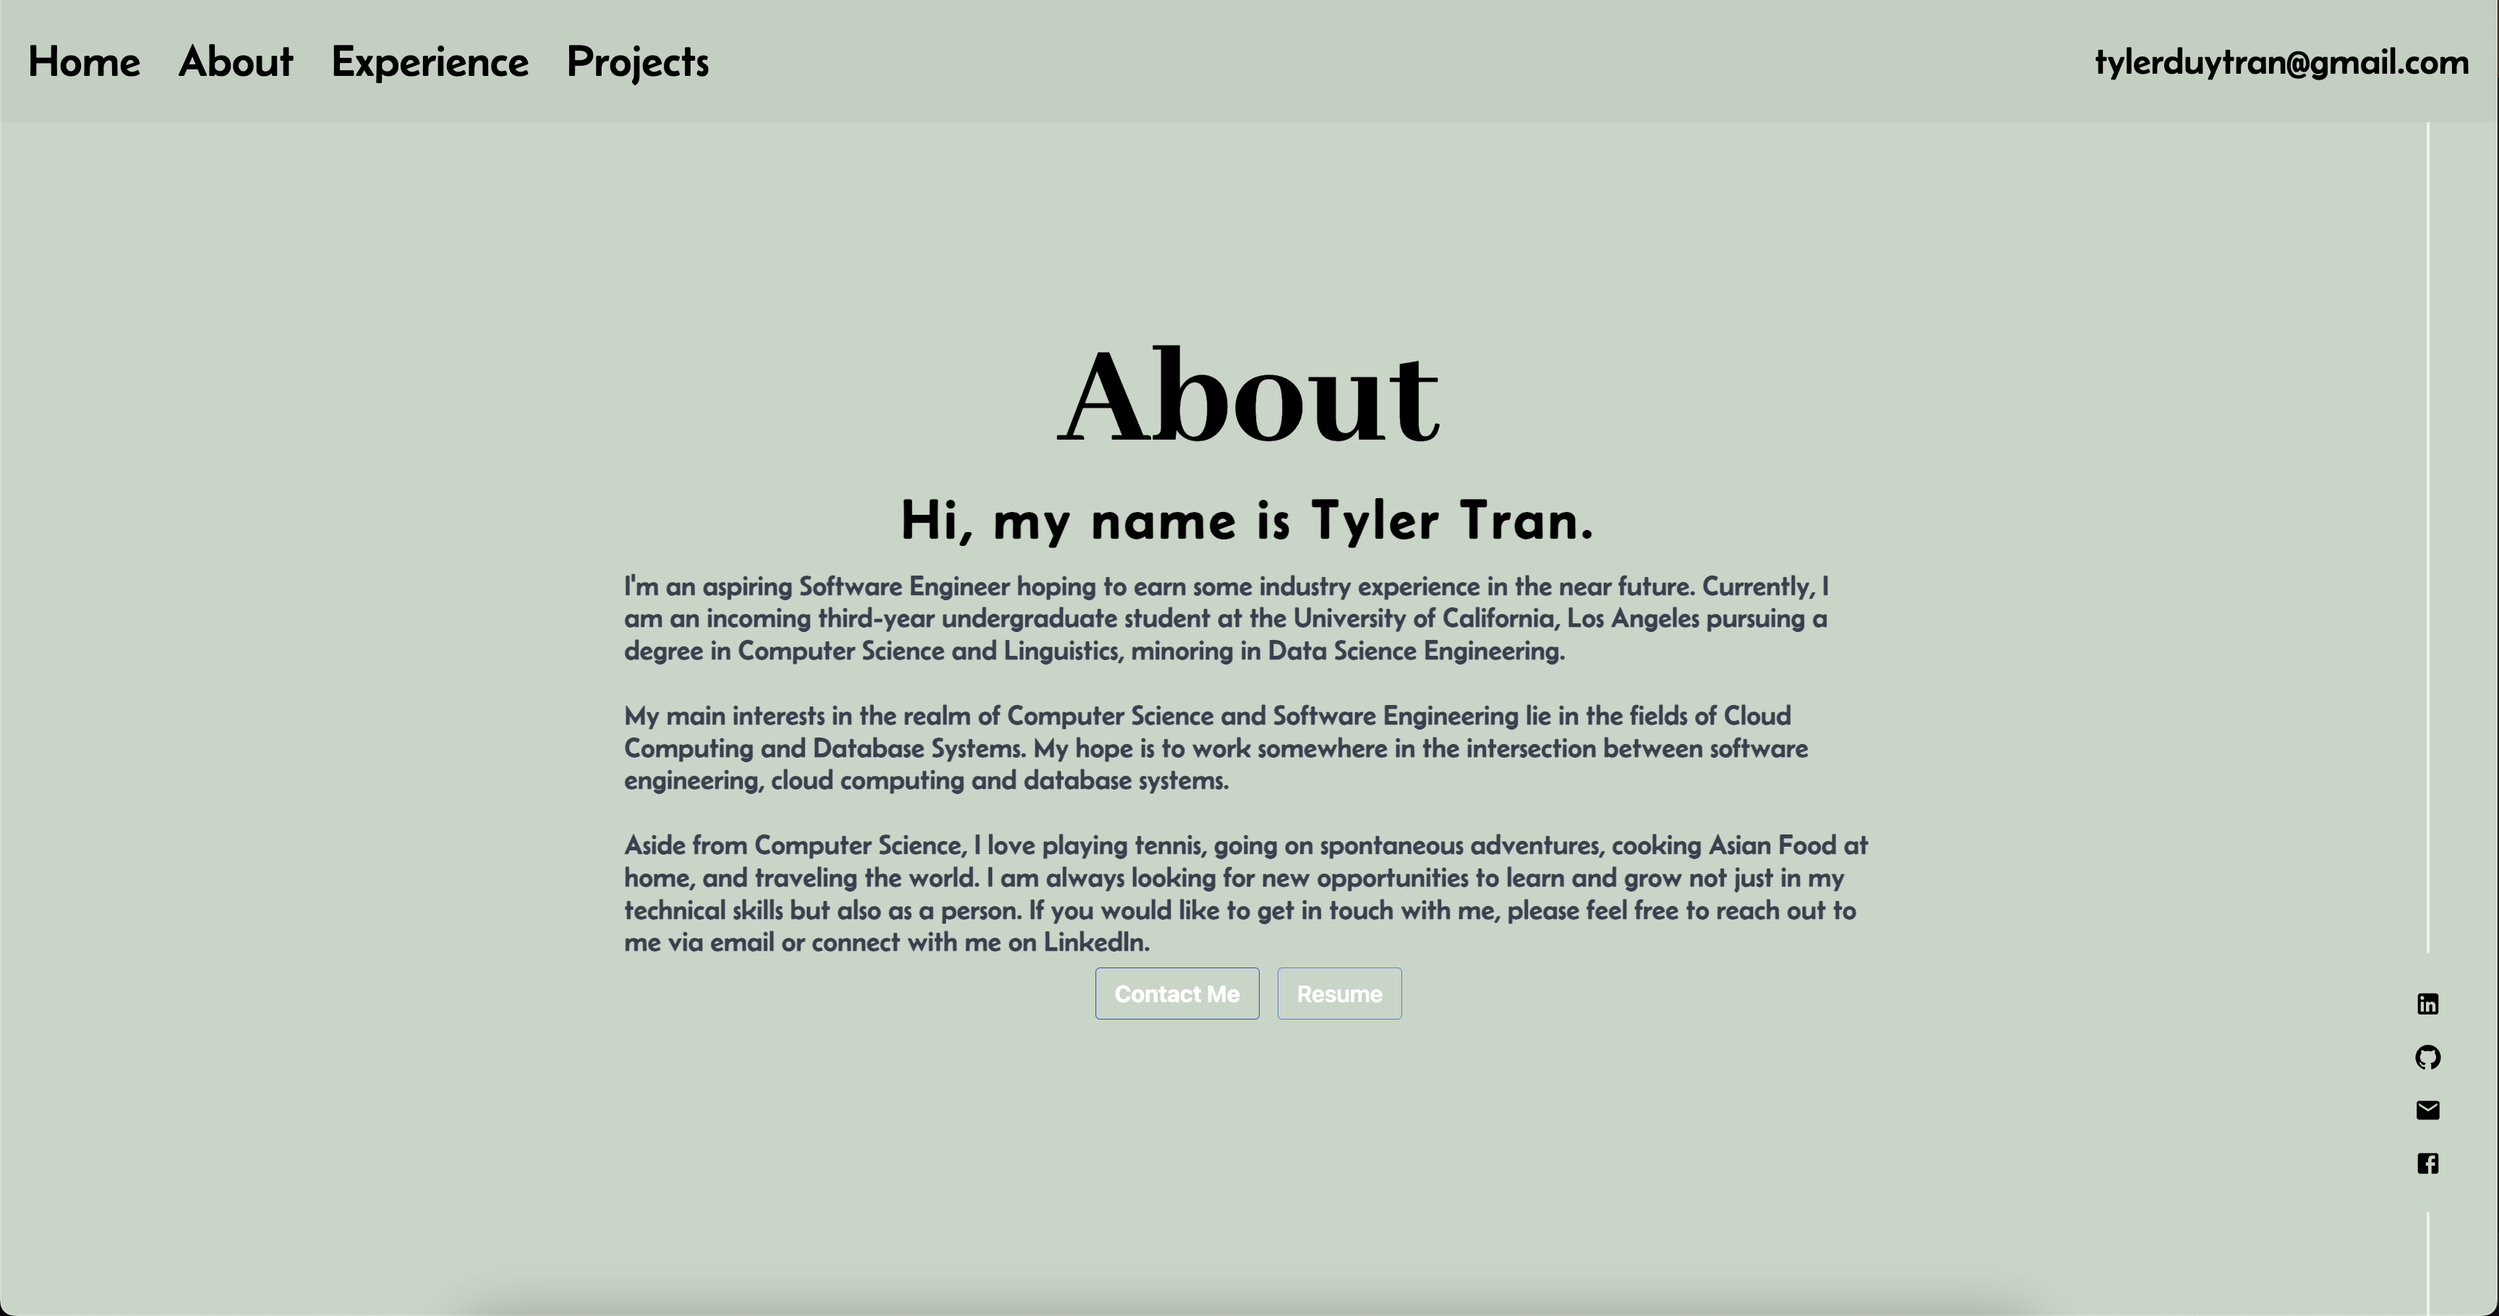
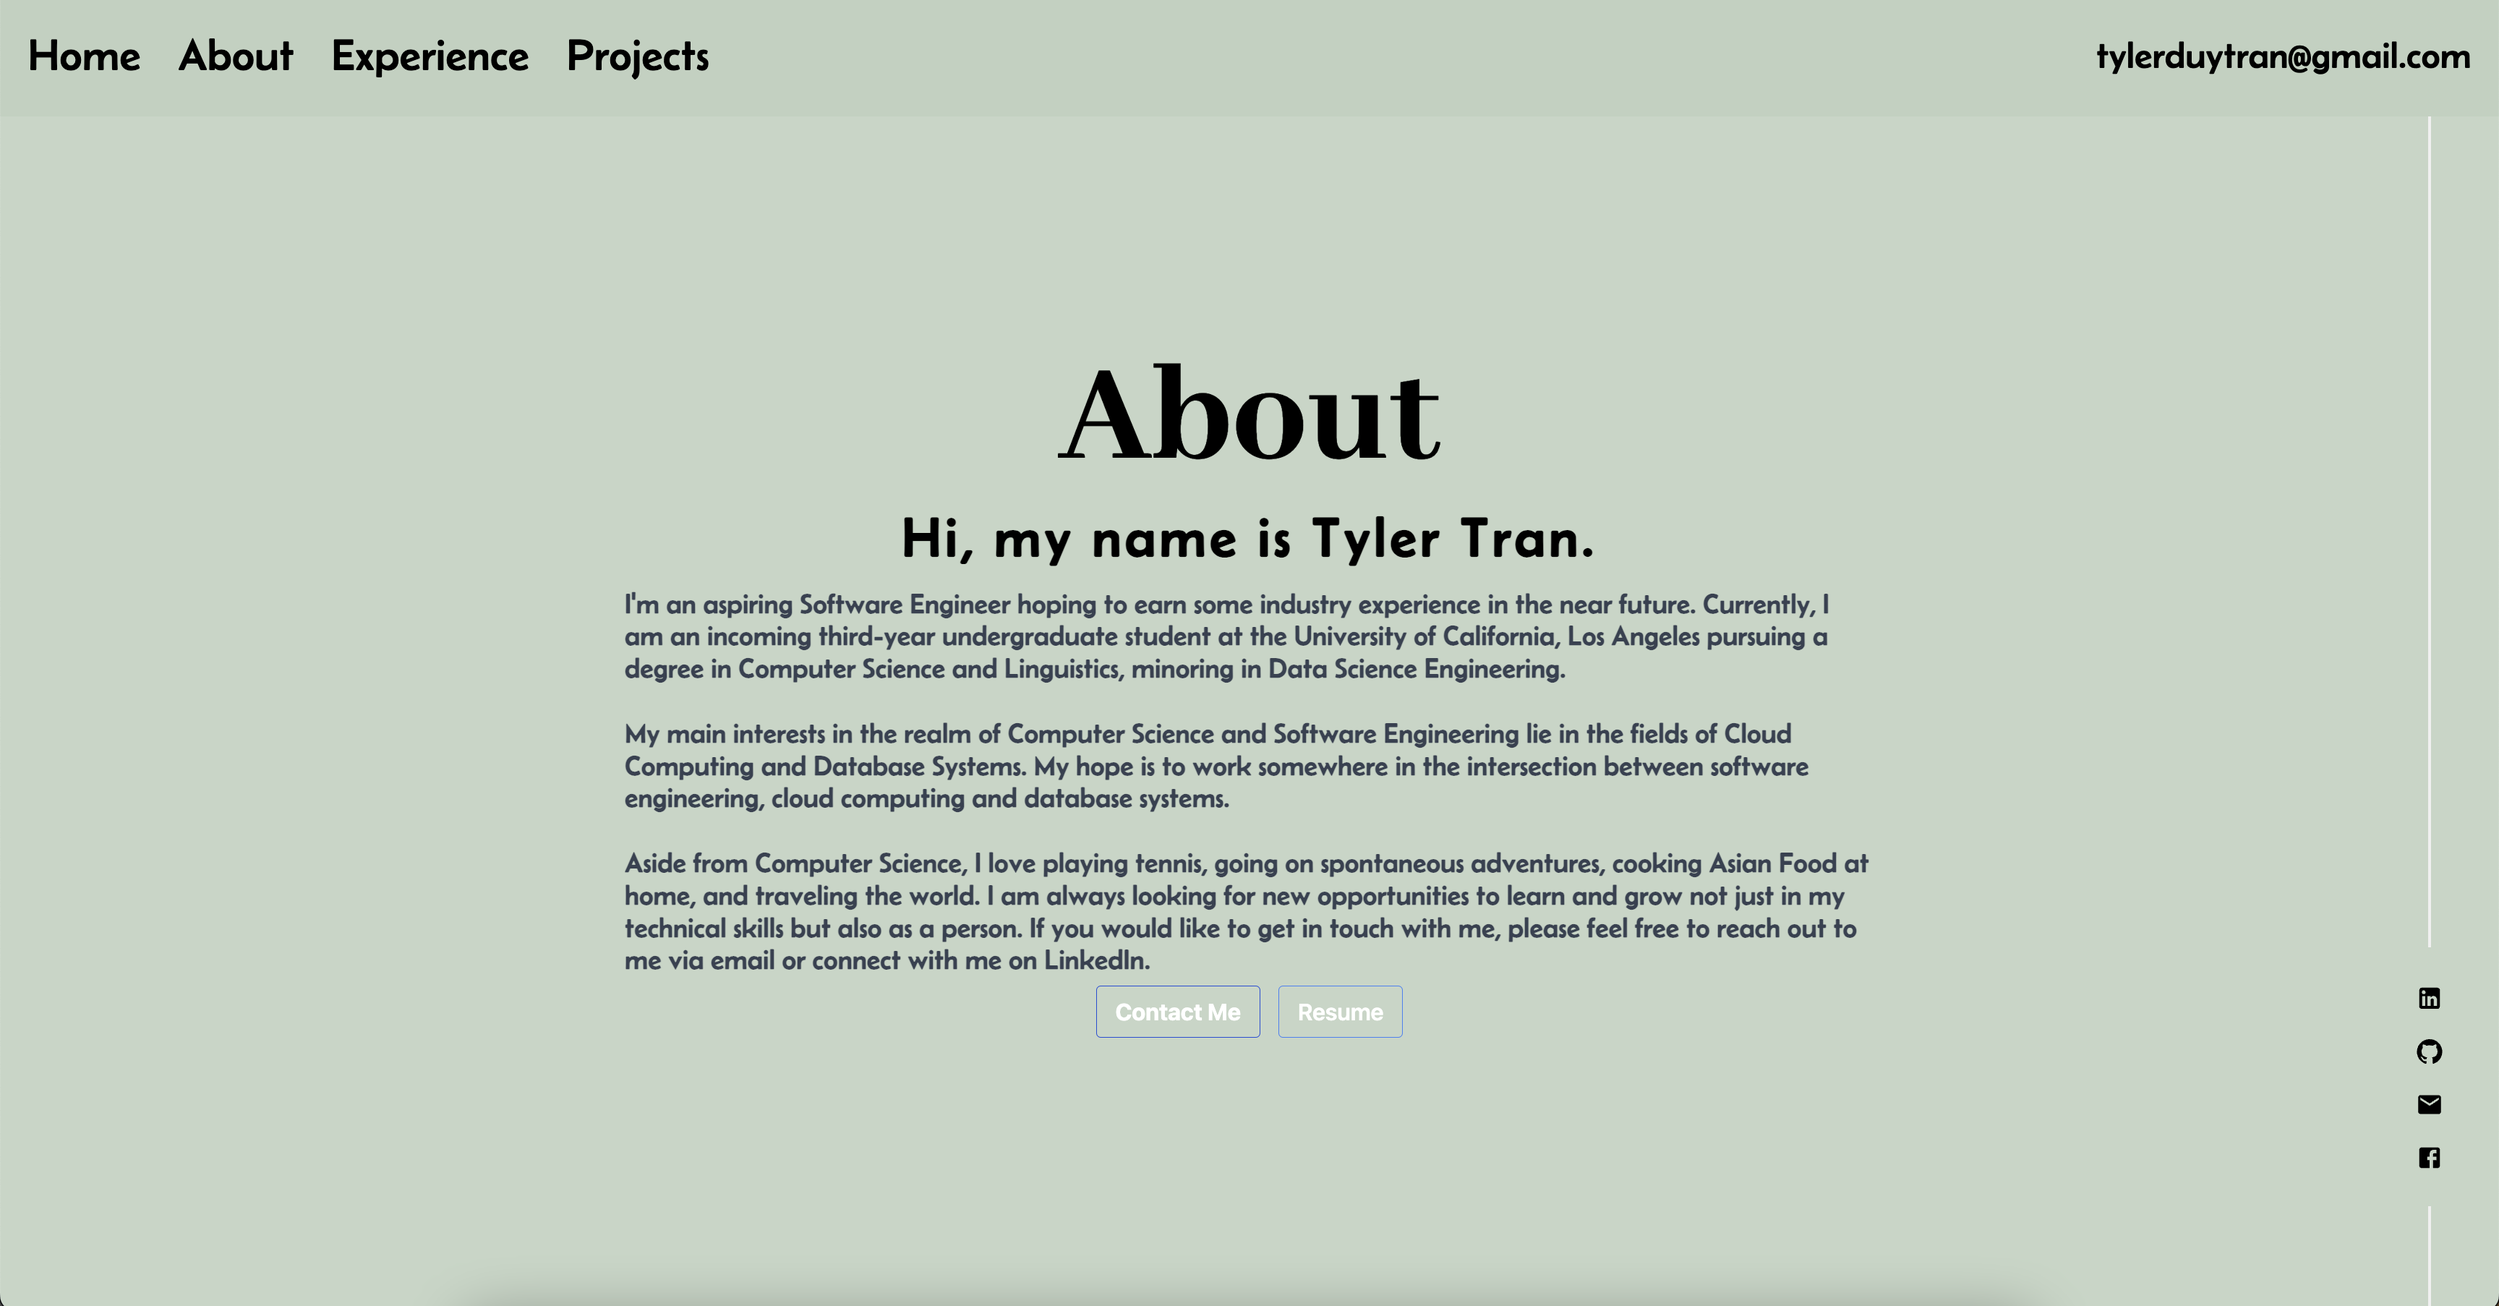
Fixed mobile implementation in some areas
Wrote in some additional descriptions, resume revision underway

diff --git a/src/components/AboutPage/About.tsx b/src/components/AboutPage/About.tsx
@@ -6,41 +6,10 @@ import { Fade, Reveal, Slide } from "react-awesome-reveal";
 
 export default function About(){
 
-    // const textContainers = document.querySelectorAll('.word');
-    // const defaultScale = 1;
-    // const maxScale = 1.5;
-    // const neighborScale = 1.25;
-
-    // textContainers.forEach((textContainer) => {
-    //     const spans = textContainer.querySelectorAll('span');
-
-    //     textContainer.addEventListener('mousemove', (e) => {
-    //         const target = e.target;
-    //         const index = Array.from(spans).indexOf(target as HTMLSpanElement);
-
-    //         spans.forEach((span, i) => {
-    //             let scale = defaultScale;
-
-    //             if (i === index) {
-    //                 scale = maxScale;
-    //             }
-    //             else if (i === index - 1 || i === index + 1) {
-    //                 scale = neighborScale;
-    //             }
-    //             span.style.transform = `scaleY(${scale})`;
-    //         });
-    //     });
-    //     textContainer.addEventListener('mouseleave', () => {
-    //         spans.forEach((span) => {
-    //             span.style.transform = `scaleY(${defaultScale})`;
-    //         });
-    //     });
-    // });
-
     return (
         <div id="About" className="lg:h-screen flex flex-col justify-center items-center md:h-min ">
            
-            <div className="components flex flex-col items-center w-3/6">
+            <div className="components flex flex-col items-center w-5/6 md:w-3/6 ">
                 <Reveal triggerOnce={true}>
                     <div id="about-title-container">
                         <h1 className="text-8xl about-title">About</h1>
@@ -59,7 +28,7 @@ export default function About(){
                 <Slide triggerOnce={true} direction='right'>
                 <h2 className="about-name">Hi, my name is Tyler Tran.</h2>   
                 </Slide>
-                <div className='general-text font-bold text-xl mb-2'>
+                <div className='about-column-1 general-text font-bold text-xl mb-2'>
                     <Fade direction="up" cascade={true} triggerOnce={true} delay={500}>
                     <p className='text-gray-700 '>
                     I'm an aspiring Software Engineer hoping to earn some industry experience in the near future. 
@@ -79,14 +48,14 @@ export default function About(){
                     </p>
                     </Fade>
                 </div>
-                <Slide direction="up">
+                <Slide direction="up" triggerOnce={true}>
                 <div className='font-bold text-xl mb-2 gap-4 flex space-between'>
-                    <button className=" hover:bg-blue-700 text-white font-bold py-2 px-4 border border-blue-700 rounded">
+                    <button className=" hover:bg-[#0A192F] text-white font-bold py-2 px-4 border border-blue-700 rounded">
                         <a href="mailto:tylerduytran@gmail.com" target='_blank' rel="noreferrer">
                             Contact Me
                         </a>
                     </button>
-                    <button className="bg-transparent hover:bg-blue-500 text-white font-semibold hover:text-white py-2 px-4 border border-blue-500 hover:border-transparent rounded">
+                    <button className="bg-transparent hover:bg-[#0A192F] text-white font-semibold hover:text-white py-2 px-4 border border-blue-500 hover:border-transparent rounded">
                         <a href="mailto:tylerduytran@gmail.com" target='_blank' rel="noreferrer">
                             Resume
                         </a>

diff --git a/src/components/ExperiencePage/Experience.tsx b/src/components/ExperiencePage/Experience.tsx
@@ -14,27 +14,29 @@ export const Experience = () => {
           <div id="experience-header-container">
             <div className="experience-name" id="experience-header">Experience</div>
           </div>
-          {work_experience.map((experienceObj, i) => (
-            <div key={i} id="experience-object-container">
-              <div id="experience-image-container">
-                {experienceObj.image && (
-                  <img id="experience-image" src={experienceObj.image} alt="experience-proj"/>
-                )}
-              </div>
-              <div id="experience-text-container">
-                <div id="experience-title">{experienceObj.role}</div>
-                <div id="experience-employer">{experienceObj.employer}</div>
-                <div id="experience-date">{experienceObj.date}</div>
-                {experienceObj.description.map((description, i) => {
-                  return (
-                    <div key={i} id="experience-description">
-                      {description}
-                    </div>
-                  )
-                })}
-              </div>
-            </div>
-          ))}
+          <div className="experience-object-containers rounded-2xl">
+            {work_experience.map((experienceObj, i) => (
+                <div key={i} id="experience-object-container">
+                <div id="experience-image-container">
+                    {experienceObj.image && (
+                    <img id="experience-image" src={experienceObj.image} alt="experience-proj"/>
+                    )}
+                </div>
+                <div id="experience-text-container">
+                    <div id="experience-title">{experienceObj.role}</div>
+                    <div id="experience-employer">{experienceObj.employer}</div>
+                    <div id="experience-date">{experienceObj.date}</div>
+                    {experienceObj.description.map((description, i) => {
+                    return (
+                        <div key={i} id="experience-description">
+                        {description}
+                        </div>
+                    )
+                    })}
+                </div>
+                </div>
+            ))}
+          </div>
         </div>
       </Fade>
     </div>

diff --git a/src/components/ExperiencePage/Experience.scss b/src/components/ExperiencePage/Experience.scss
@@ -14,8 +14,11 @@
   align-items: center;
   margin-top: 325px;
 
+
+
   #experience-main-container {
     width: 900px;
+    border-radius: 0.75em;
 
     @media (max-width: 920px) {
       width: 50%;
@@ -26,12 +29,20 @@
     @media (max-width: 700px) {
       width: 95%;
     }
+    // experience-object-containers {
+    //     border-radius: 0.75em;
+    // }
+    .experience-object-containers {
+        border-radius: 0.75em;
+        overflow: hidden;
+    }
 
     #experience-header-container {
       display: flex;
       flex-direction: row;
       text-align: center;
       margin-bottom: 15px;
+      justify-content: center;
 
     //   &:before {
     //     content: '';
@@ -61,7 +72,10 @@
     #experience-object-container {
       display: flex;
       border-bottom: 1px solid rgba(255, 255, 255, 0.3);
-      background-color: rgba(15, 15, 15, 0.9);
+    //   background-color: rgba(15, 15, 15, 0.9);
+    //   background-color: rgba(192, 208, 192, 1);
+      // what is background-color: #c0d0c0; in rgba?
+      background-color: rgba(182, 198, 182, 1);
 
       #experience-image-container {
         margin: 27px 10px 10px 10px;
@@ -73,16 +87,17 @@
 
       #experience-text-container {
         margin: 15px 0px 15px 0px;
+
         #experience-title {
           margin: 0px 10px 0px 10px;
-         color: $themeWhite;
+         color: $themeBlack;
           font-size: 19px;
           font-family: 'Belanosima', sans-serif;
         }
 
         #experience-employer {
           margin: 0px 10px 10px 10px;
-          color: $themeYellow;
+          color: $themeBlack;
           font-size: 17px;
           font-family: 'Belanosima', sans-serif;
         }

diff --git a/src/constants/constants.tsx b/src/constants/constants.tsx
@@ -63,7 +63,7 @@ const project_links = [
     
     {
         name: 'Meristream',
-        description: 'lorem ipsum',
+        description: 'Meristream is a subscription music streaming service that allows for you to play sonically rich spa music at a fraction of the cost of other services.',
         githubURL: 'https://github.com/tylerdtran/meristream',
         websiteURL: 'https://github.com/tylerdtran/meristream',
         image: MeristreamSite,
@@ -71,7 +71,7 @@ const project_links = [
     },
     {
         name: 'Portfolio Site',
-        description: 'This website was built by Tyler Tran. I built this website using React, TypeScript, and Sass. I used Tailwind CSS and MaterialUI for styling. I used React awesome reveal for transitions and animations. ',
+        description: 'This Portfolio website was built by Tyler Tran. I built this website using React, TypeScript, and Sass. I used Tailwind CSS and MaterialUI for styling. I used React awesome reveal for transitions and animations. ',
         githubURL: 'https://github.com/tylerdtran/tylertran.me',
         websiteURL: 'https://github.com/tylerdtran/tylertran.me',
         image: PortfolioWebsite,
@@ -79,7 +79,7 @@ const project_links = [
     },
     {  
         name: 'Retainify',
-        description: 'lorem ipsum',
+        description: 'Retainify seamlessly integrates into your student workflow by taking your class notes and automically generating free-response review questions from the Cohere AI Large Language Models 🧠. ',
         githubURL: 'https://github.com/tylerdtran/Retainify',
         websiteURL: 'https://github.com/tylerdtran/Retainify',
         image: Retainify,

diff --git a/src/components/LandingPage/LandingPage.scss b/src/components/LandingPage/LandingPage.scss
@@ -1,12 +1,60 @@
 @import url('https://fonts.googleapis.com/css2?family=Abhaya+Libre:wght@800&family=Belanosima&display=swap');
+@mixin mobile-title-sizing {
+    @media (max-width: 950px) {
+        font-size: 8em;
+      }
 
+      @media (max-width: 770px) {
+        font-size: 7em;
+      }
+
+      @media (max-width: 600px) {
+        margin-left: 10px;
+        font-size: 6em;
+      }
+
+      @media (max-width: 530px) {
+        font-size: 5em;
+      }
+
+      @media (max-width: 455px) {
+        font-size: 4em;
+      }
+}
 .Landing-Name {
     font-family: 'Abhaya Libre', serif;
     font-size: 8em;
+    color: black;
+    @include mobile-title-sizing;
+
+}
+@mixin mobile-position-sizing {
+    @media (max-width: 950px) {
+        font-size: 5em;
+      }
+
+      @media (max-width: 770px) {
+        font-size: 4em;
+      }
+
+      @media (max-width: 600px) {
+        margin-left: 10px;
+        font-size: 3em;
+      }
+
+      @media (max-width: 530px) {
+        font-size: 2.5em;
+      }
+
+      @media (max-width: 455px) {
+        font-size: 2em;
+      }
 }
 .Landing-Position {
     font-family: 'Belanosima', sans-serif;
     font-size: 5em;
+    color: rgba(0, 0, 0, 0.75);
+    @include mobile-position-sizing;
 }
 
 

diff --git a/src/components/ProjectsPage/Projects.scss b/src/components/ProjectsPage/Projects.scss
@@ -40,6 +40,7 @@
       display: flex;
       flex-direction: row;
       text-align: center;
+      justify-content: center;
 
     //   &:before {
     //     content: '';
@@ -122,6 +123,7 @@
               background-color: rgba(18, 18, 18, 0.9);
               position: relative;
               box-shadow: 0 20px 20px 5px rgba(0, 0, 0, .1);
+              border-radius: 0.3125em;
 
               #project-description {
                 @include paragraph-gray-text;
@@ -156,6 +158,10 @@
               right: 50px;
               box-shadow: 0 20px 20px 2px rgba(0, 0, 0, .1);
               transition: 1s;
+              border-radius: 0.75em;
+              overflow: hidden;
+
+
             
 
               @media (max-width: 1150px) {

diff --git a/src/components/NavigationBar/navbar.tsx b/src/components/NavigationBar/navbar.tsx
@@ -14,7 +14,7 @@ export default function Navbar() {
 
         <Fade className="fade w-full" direction="down" duration={1000} triggerOnce={true} >
             <div className="navbar-main-container flex items-center space-between flex-start bg-grey p-6 ">
-                <div className="navbar-container w-full block flex-grow gap-4 flex items-center w-auto">
+                <div className="navbar-container w-full block flex-grow md:gap-4 flex items-center w-auto">
                     {/* Make this into a list that is called from the array established in constants. */}
                     {navbar_links &&
                     navbar_links.map(({ name }, i) => {

diff --git a/src/components/LandingPage/LandingPage.tsx b/src/components/LandingPage/LandingPage.tsx
@@ -13,7 +13,7 @@ export default function LandingPage(){
                         <h1 className='Landing-Name text-white'>Tyler Tran</h1>
                     </Fade>
                     <Fade direction="up" triggerOnce={true} delay={500} duration={1500}>
-                        <h2 className='Landing-Position'>Software Engineer</h2>
+                        <h2 className='Landing-Position '>Software Engineer</h2>
                     </Fade>
             </div> 
         </div>

diff --git a/src/components/NavigationBar/navbar.scss b/src/components/NavigationBar/navbar.scss
@@ -3,7 +3,7 @@
 .fade {
     position: fixed;
     z-index:2; //any higher integer value
-    background-color: #c6d5c6;
+    // background-color: #c6d5c6;
     // background-color: #AA96DA;
     // background-color: #ADD8E6;
     background-color: #c0d0c0;
@@ -66,7 +66,10 @@
     //   }
 
     @media (max-width: 425px) {
-        font-size: 1.5em;
+        font-size: 0.75em;
+      }
+    @media (max-width: 375px) {
+        font-size: 0.5em;
       }
 }
 

diff --git a/src/components/AboutPage/About.scss b/src/components/AboutPage/About.scss
@@ -1,4 +1,6 @@
 @import url('https://fonts.googleapis.com/css2?family=Abhaya+Libre:wght@800&family=Belanosima&display=swap');
+@import '../../constants/constants.scss';
+
 
 .about-title {
     font-family: 'Abhaya Libre', serif;
@@ -49,4 +51,9 @@
     //   height: 2px;
     //   background-color: #fffff0;
     // }
+}
+.components {
+    @media (max-width: 600px) {
+        width: 80%;
+      }
 }

diff --git a/public/index.html b/public/index.html
@@ -24,7 +24,7 @@
       work correctly both with client-side routing and a non-root public URL.
       Learn how to configure a non-root public URL by running `npm run build`.
     -->
-    <title>React App</title>
+    <title>Tyler Tran</title>
   </head>
   <body>
     <noscript>You need to enable JavaScript to run this app.</noscript>
